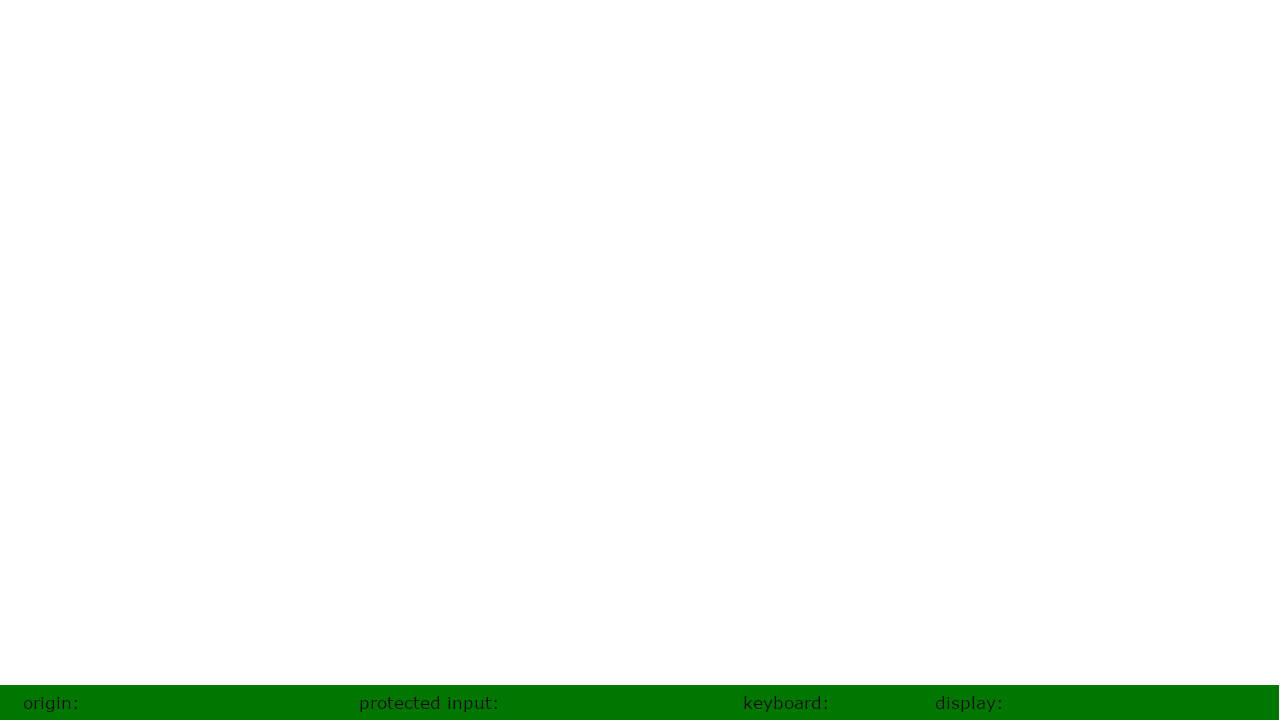
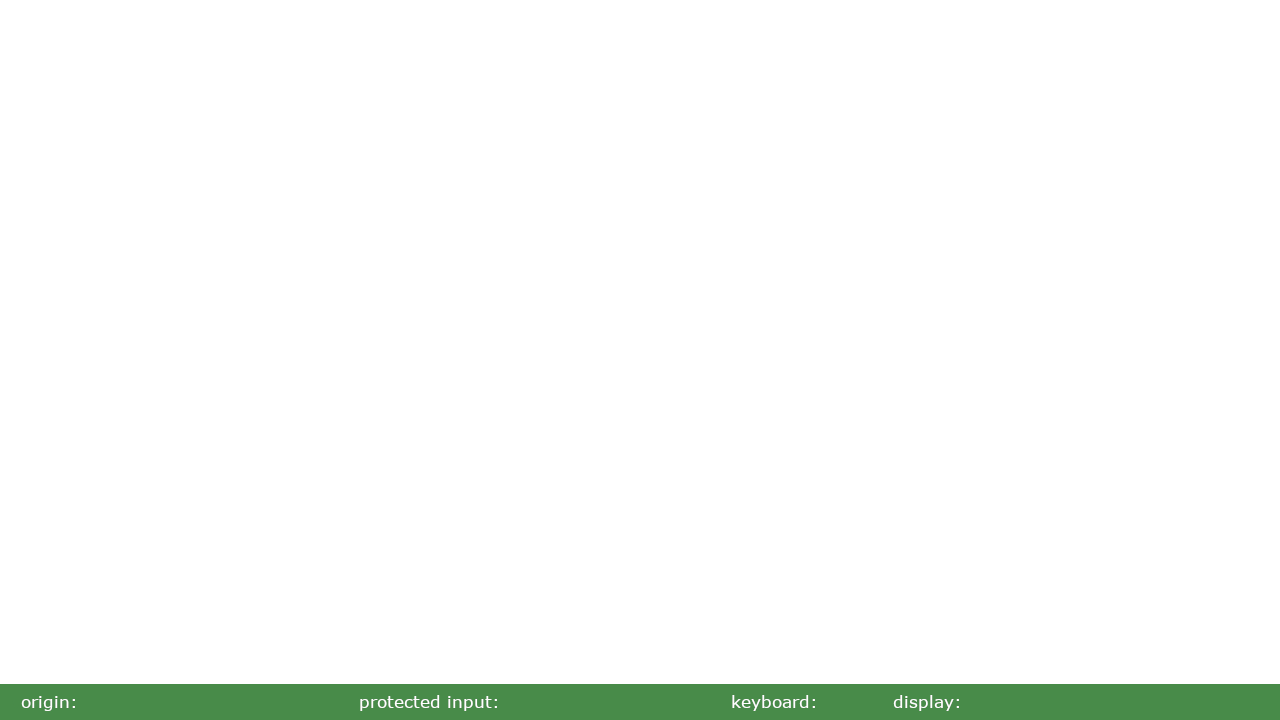
changes color scheme of bottom bar

Changed region(s): [[0.0, 0.9472, 1.0, 1.0]]

diff --git a/examples/login_form/index_sgx.html b/examples/login_form/index_sgx.html
@@ -24,7 +24,10 @@ signature.js:2881 Public Key: 125,244,176,209,54,191,181,151,225,121,178,238,200
 signature.js:2884 Signature: 7b4b6ef239c0327d364e483dfbe275af19748380b3957d7519bb3599effaa077486871f1b97de5c24945eb306105048a56319e56ecc18c543f130321b6c8fe0e
 signature.js:2885 Signature: 123,75,110,242,57,192,50,125,54,78,72,61,251,226,117,175,25,116,131,128,179,149,125,117,25,187,53,153,239,250,160,119,72,104,113,241,185,125,229,194,73,69,235,48,97,5,4,138,86,49,158,86,236,193,140,84,63,19,3,33,182,200,254,14 -->
 
[1 lines of base64/hex data omitted]
+    <form name="loginform" 
[2 lines of base64/hex data omitted]
+action="/api/login" secure>
       <label for="username">Username:</label>
       <input type="text" name="username" autocomplete="off" required/><br/>
 

diff --git a/firmware/display/decode.c b/firmware/display/decode.c
@@ -27,14 +27,14 @@ decode_system(PyObject *self, PyObject *args)
     	{
     		if (byte & 0x01) 
     		{
-    			buff[i*32 + x*4] = (char)0;
-    			buff[i*32 + x*4 + 1] = (char)117;
-    			buff[i*32 + x*4 + 2] = (char)0;
-    			buff[i*32 + x*4 + 3] = green ? (char)255 : 0;
+    			buff[i*32 + x*4] = (char)0x48;
+    			buff[i*32 + x*4 + 1] = (char)0x8b;
+    			buff[i*32 + x*4 + 2] = (char)0x49;
+    			buff[i*32 + x*4 + 3] = green ? (char)255 : (char)0;
     		} else {
-    			buff[i*32 + x*4] = (char)0;
-    			buff[i*32 + x*4 + 1] = (char)0;
-    			buff[i*32 + x*4 + 2] = (char)0;
+    			buff[i*32 + x*4] = green ? (char)255 : (char)0;
+    			buff[i*32 + x*4 + 1] = green ? (char)255 : (char)0;
+    			buff[i*32 + x*4 + 2] = green ? (char)255 : (char)0;
     			buff[i*32 + x*4 + 3] = (char)255;
     		}
     		byte = byte >> 1;
